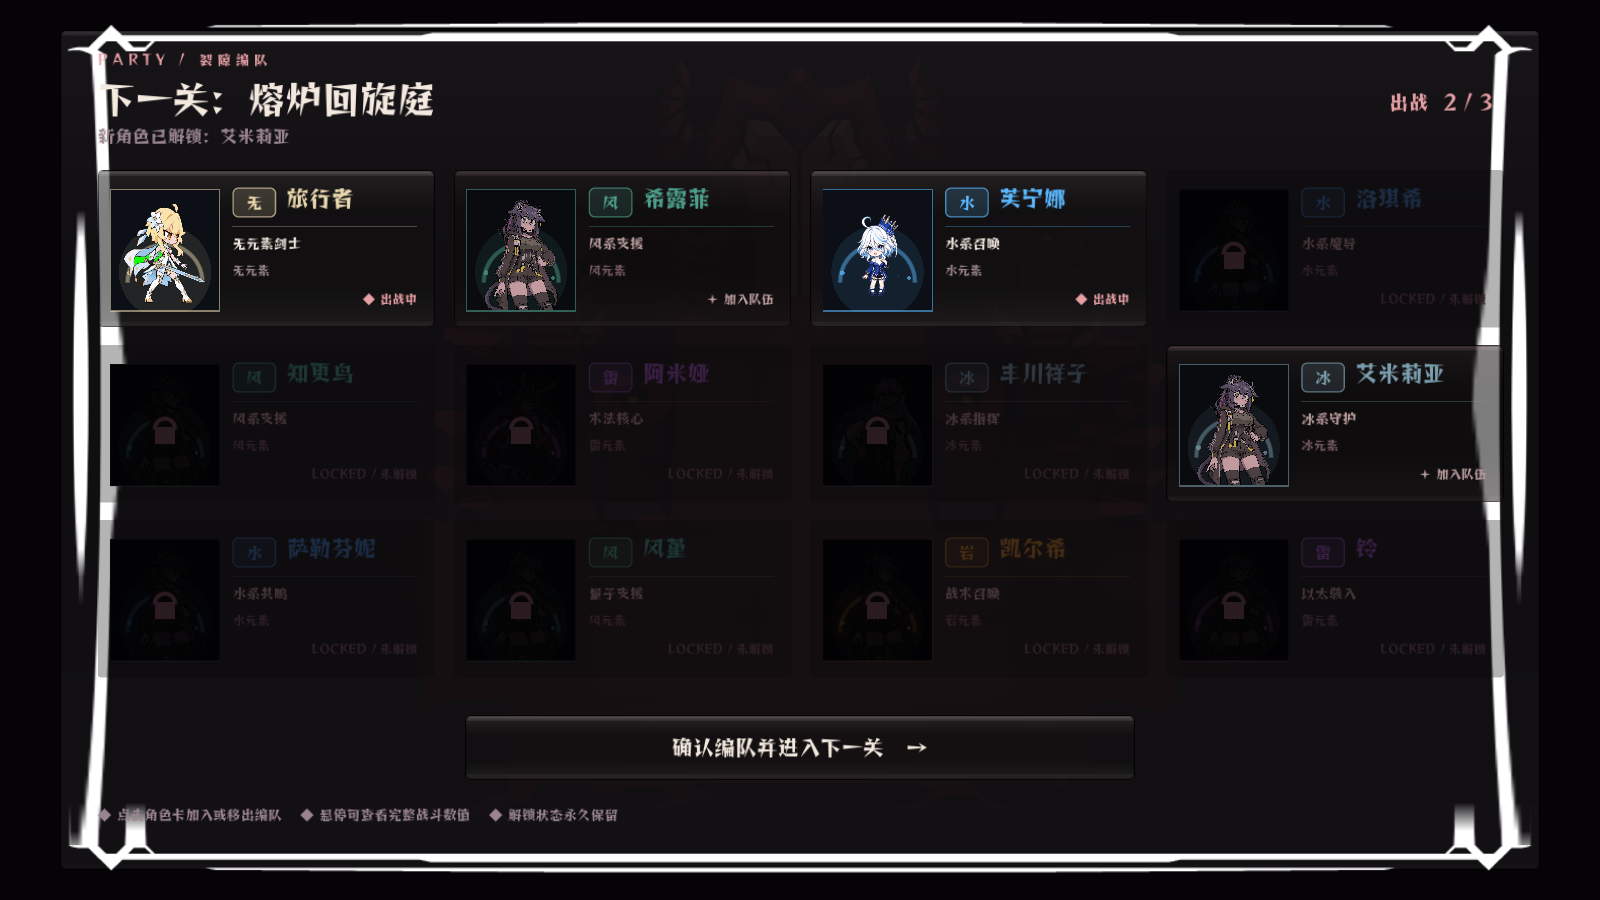
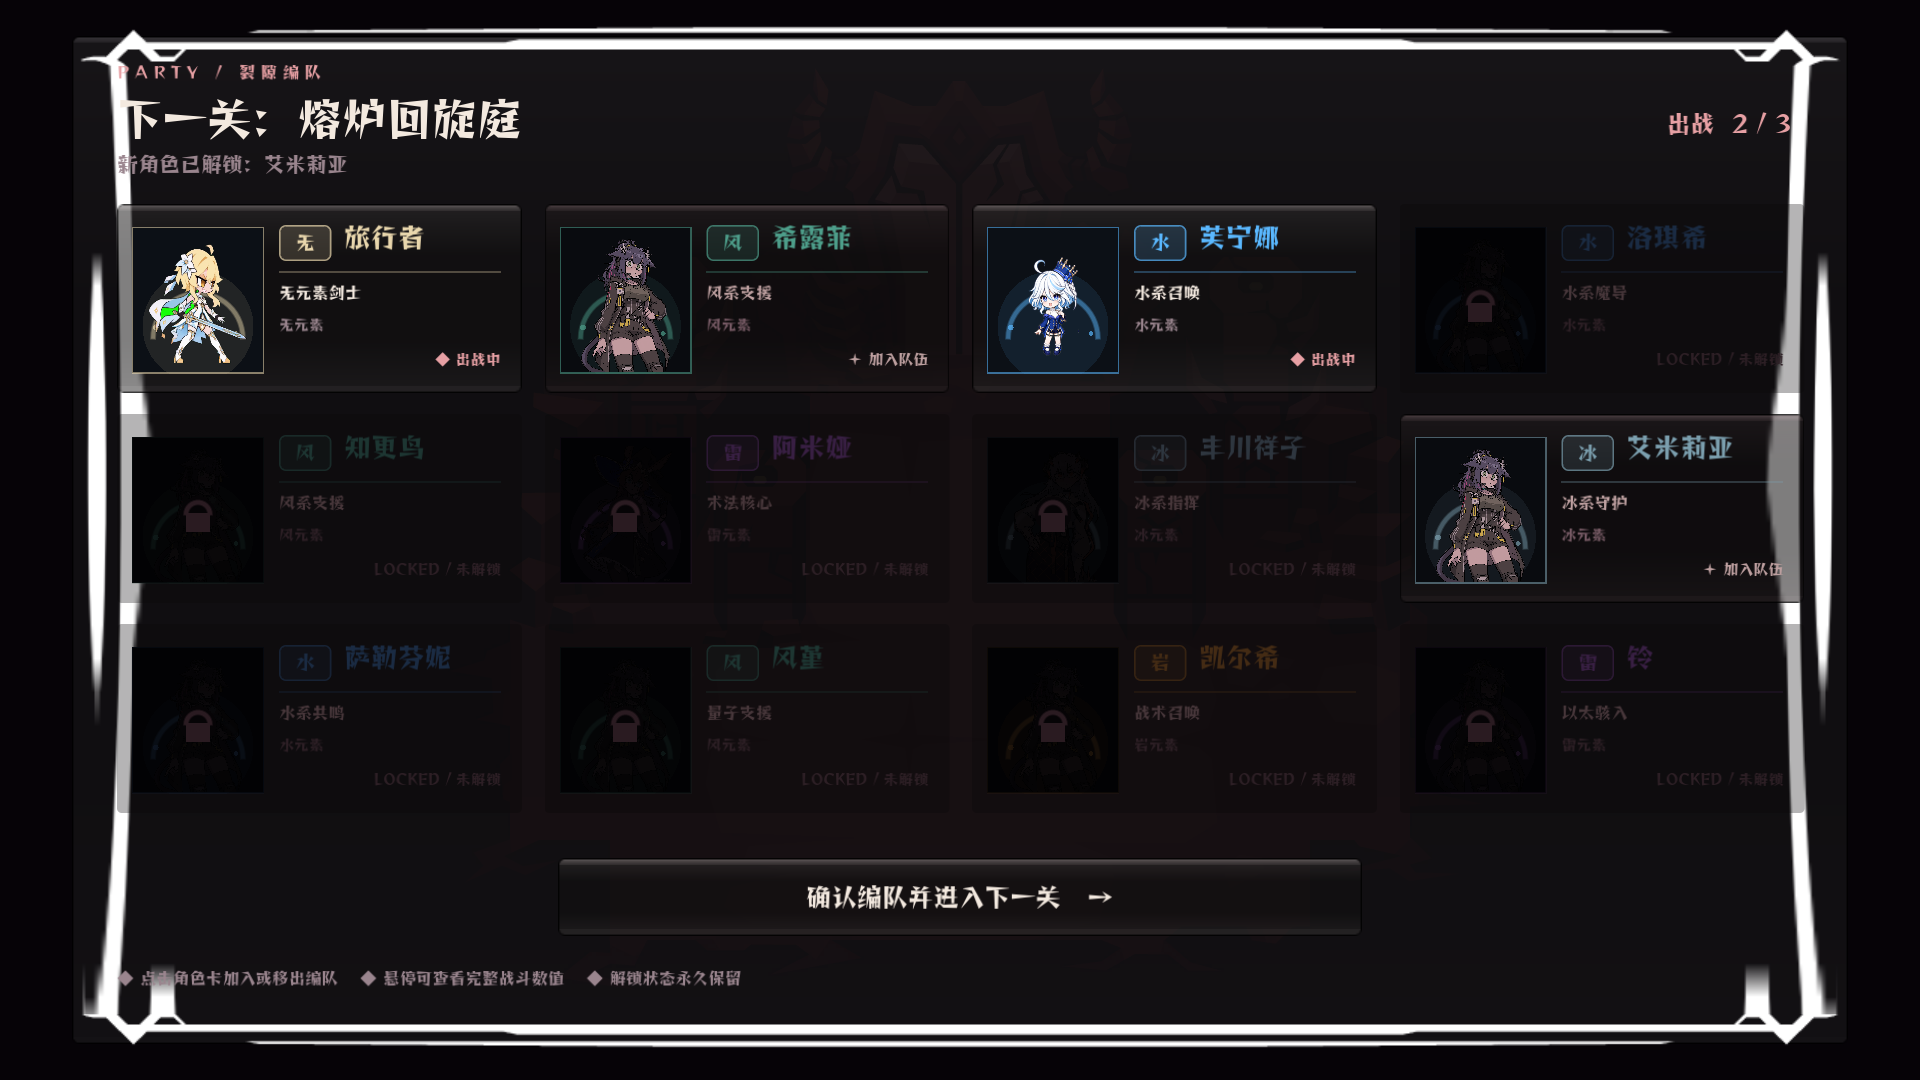
chore: make 1080p the primary resolution

diff --git a/tools/validate_v33_release.py b/tools/validate_v33_release.py
@@ -7,8 +7,8 @@ out=root/'docs/v33-validation'
 results=[]
 for name,args in [
     ('release-headless-v33',['--headless','--','--v33-test']),
-    ('release-visual-v33',['--resolution','1600x900','--','--v33-test',f'--qa-output={(out/"release").as_posix()}']),
-    ('release-visual-v33-ui',['--resolution','1600x900','--','--v33-ui-test',f'--qa-output={(out/"release-ui").as_posix()}']),
+    ('release-visual-v33',['--resolution','1920x1080','--','--v33-test',f'--qa-output={(out/"release").as_posix()}']),
+    ('release-visual-v33-ui',['--resolution','1920x1080','--','--v33-ui-test',f'--qa-output={(out/"release-ui").as_posix()}']),
     ('release-visual-v17',['--resolution','1280x720','--','--v17-test']),
 ]:
     logfile=out/f'{name}.log'

diff --git a/tools/validate_v33_visual.py b/tools/validate_v33_visual.py
@@ -4,7 +4,7 @@ root=Path(__file__).resolve().parents[1]
 engine=root.parent/'.tools/godot/Godot_v4.4.1-stable_win64_console.exe'
 out=root/'docs/v33-validation'
 results=[]
-for resolution in ['1280x720','1600x900']:
+for resolution in ['1280x720','1600x900','1920x1080']:
     destination=out/resolution
     result=subprocess.run([str(engine),'--path',str(root/'game'),'--resolution',resolution,'--quit-after','9000','--','--v33-test',f'--qa-output={destination.as_posix()}'],capture_output=True,text=True,encoding='utf-8',errors='replace',timeout=120)
     log=result.stdout+result.stderr

diff --git a/tools/validate_v33_ui.py b/tools/validate_v33_ui.py
@@ -8,7 +8,7 @@ engine = root.parent / ".tools/godot/Godot_v4.4.1-stable_win64_console.exe"
 out = root / "docs/v33-validation"
 results = []
 
-for resolution in ("1280x720", "1600x900"):
+for resolution in ("1280x720", "1600x900", "1920x1080"):
     destination = out / "ui" / resolution
     result = subprocess.run(
         [

diff --git a/docs/superpowers/plans/2026-09-12-v33-release-experiments.md b/docs/superpowers/plans/2026-09-12-v33-release-experiments.md
@@ -21,7 +21,7 @@
 - [x] 对审查发现的实际缺口先添加复现，再修复并运行 V33 专项；不扩展到 V34。
 - [x] 新增跨进程验收：一个进程写入隔离的远征检查点后退出，第二个进程读取同一路径并通过真实继续入口恢复；检查队伍、资源、待选事件和奖励去重。
 - [x] 运行 `python tools/validate_v33.py`，期望全部专项与八组底层回归成功，日志没有 ERROR。
-- [x] 运行 `python tools/validate_v33_visual.py`，人工查看 1280×720 / 1600×900 的继续菜单、事件结算和下一关编队截图，确认可读性与入口可用。
+- [x] 运行 `python tools/validate_v33_visual.py`，人工查看 1280×720 / 1600×900 / 1920×1080 的继续菜单、事件结算和下一关编队截图，确认可读性与入口可用。
 - [x] 使用 Godot `--headless --path game --export-release "Windows Desktop"` 构建，运行 `python tools/validate_v33_release.py`，并纳入跨进程发布包检查。
 - [x] 保存独立代码审查结论、最新测试结果与 SHA256，更新 README、V33 发布说明和原计划勾选。
 - [x] `git diff --check` 后仅暂存 V33 文件，提交并 `git push -u origin v33`，读取远端确认 SHA 一致。

diff --git a/docs/v33-validation/code-review.md b/docs/v33-validation/code-review.md
@@ -6,5 +6,5 @@
 - 保存编队、关卡、种子、路线、裂隙币、遗物、远征幸运、增益、关系、剧情标志和奖励账本；战斗内敌人、弹道与卡牌层数不写入。
 - 关前剧情、战斗起点、通关结算、路线和待选事件均有明确恢复路径；失败不会发放奖励，无尽模式不会覆盖战役检查点。
 - 保存失败显示在所有全屏界面之上且不拦截鼠标输入；下一次成功保存会清除提示。
-- 完整 UI 专项在 1280×720 与 1600×900 下通过主菜单、设置、普通模式、关卡、编队、对话选项、拖拽部署、主动技能、终结技、三选一、暂停页和无尽模式。
+- 完整 UI 专项在 1280×720、1600×900 与主分辨率 1920×1080 下通过主菜单、设置、普通模式、关卡、编队、对话选项、拖拽部署、主动技能、终结技、三选一、暂停页和无尽模式。
 - 未发现阻断发布的问题；V34 范围未混入本次实现。

diff --git a/docs/superpowers/plans/2026-09-11-v33-expedition-checkpoints.md b/docs/superpowers/plans/2026-09-11-v33-expedition-checkpoints.md
@@ -18,7 +18,7 @@
 
 - [x] `Godot_v4.4.1-stable_win64_console.exe --headless --path game -- --v33-test` 输出 0 failures。
 - [x] 执行 V32、V31、V30、V29、V28、V26、V25、V20、V17 和相关底层测试，保存日志。
-- [x] 窗口模式执行 V33；审查 1280×720 与 1600×900 的菜单与恢复画面。
+- [x] 窗口模式执行 V33；审查 1280×720、1600×900 与主分辨率 1920×1080 的菜单与恢复画面。
 - [x] 导出 `builds/rift-guard-v33/RiftGuard-V33.exe`；独立发布包执行 V33 和 V17，检查退出码、报错与截图。
 - [x] 更新 README、V33 发布说明、构建 SHA256；只暂存本轮文件，提交并推送独立 `v33` 分支。
 
